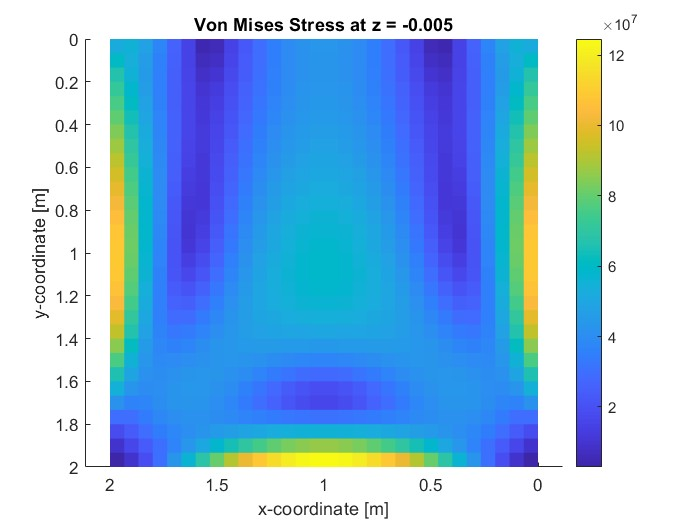
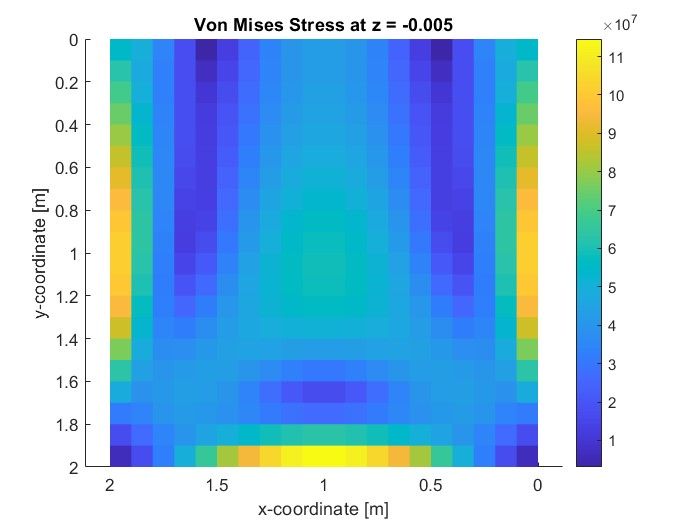
as

diff --git a/Graded Assignment 2b/Task 1d/Task1d.m b/Graded Assignment 2b/Task 1d/Task1d.m
@@ -23,8 +23,8 @@ Dbar=D*t^3/12; % Dbar matrix
 xmin = 0; xmax = L; % Plate length in meters
 ymin = 0; ymax = H; % Plate height in meters
 
-nelx = 30; % Number of elements along x-direction
-nely = 30;  % Number of elements along y-direction
+nelx = 20; % Number of elements along x-direction
+nely = 20;  % Number of elements along y-direction
 nel = nelx*nely; % Total number of elements
 
 % Calling rectMesh function
